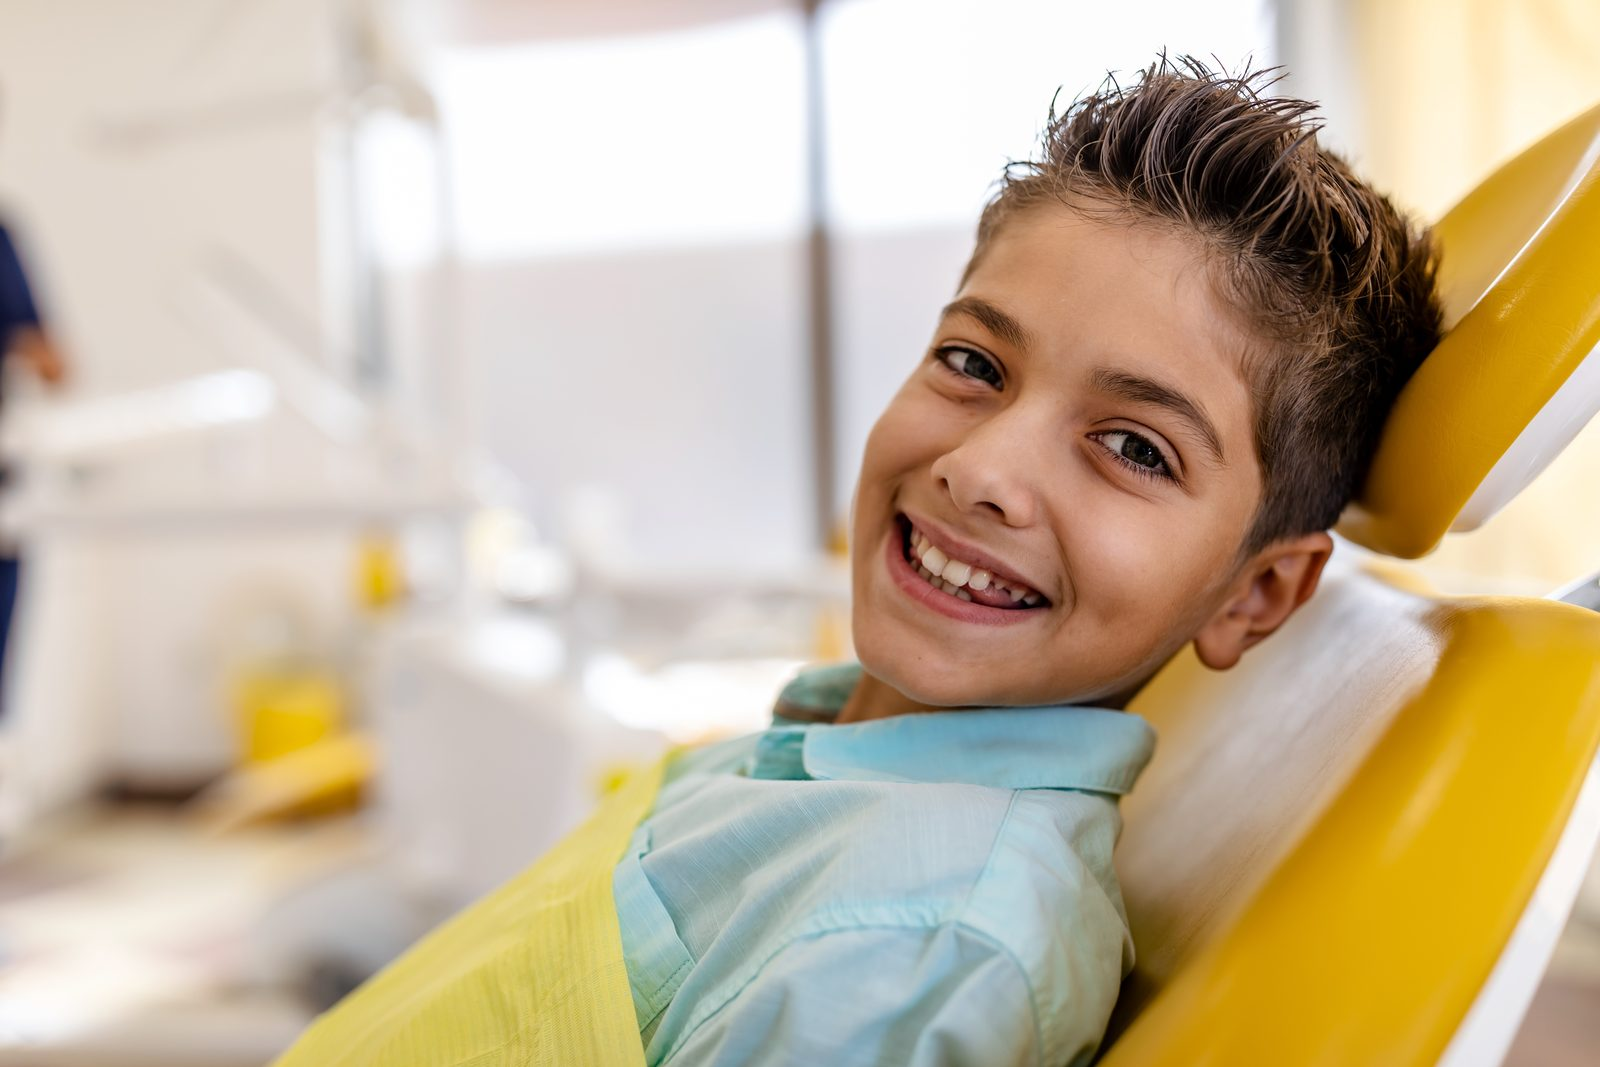
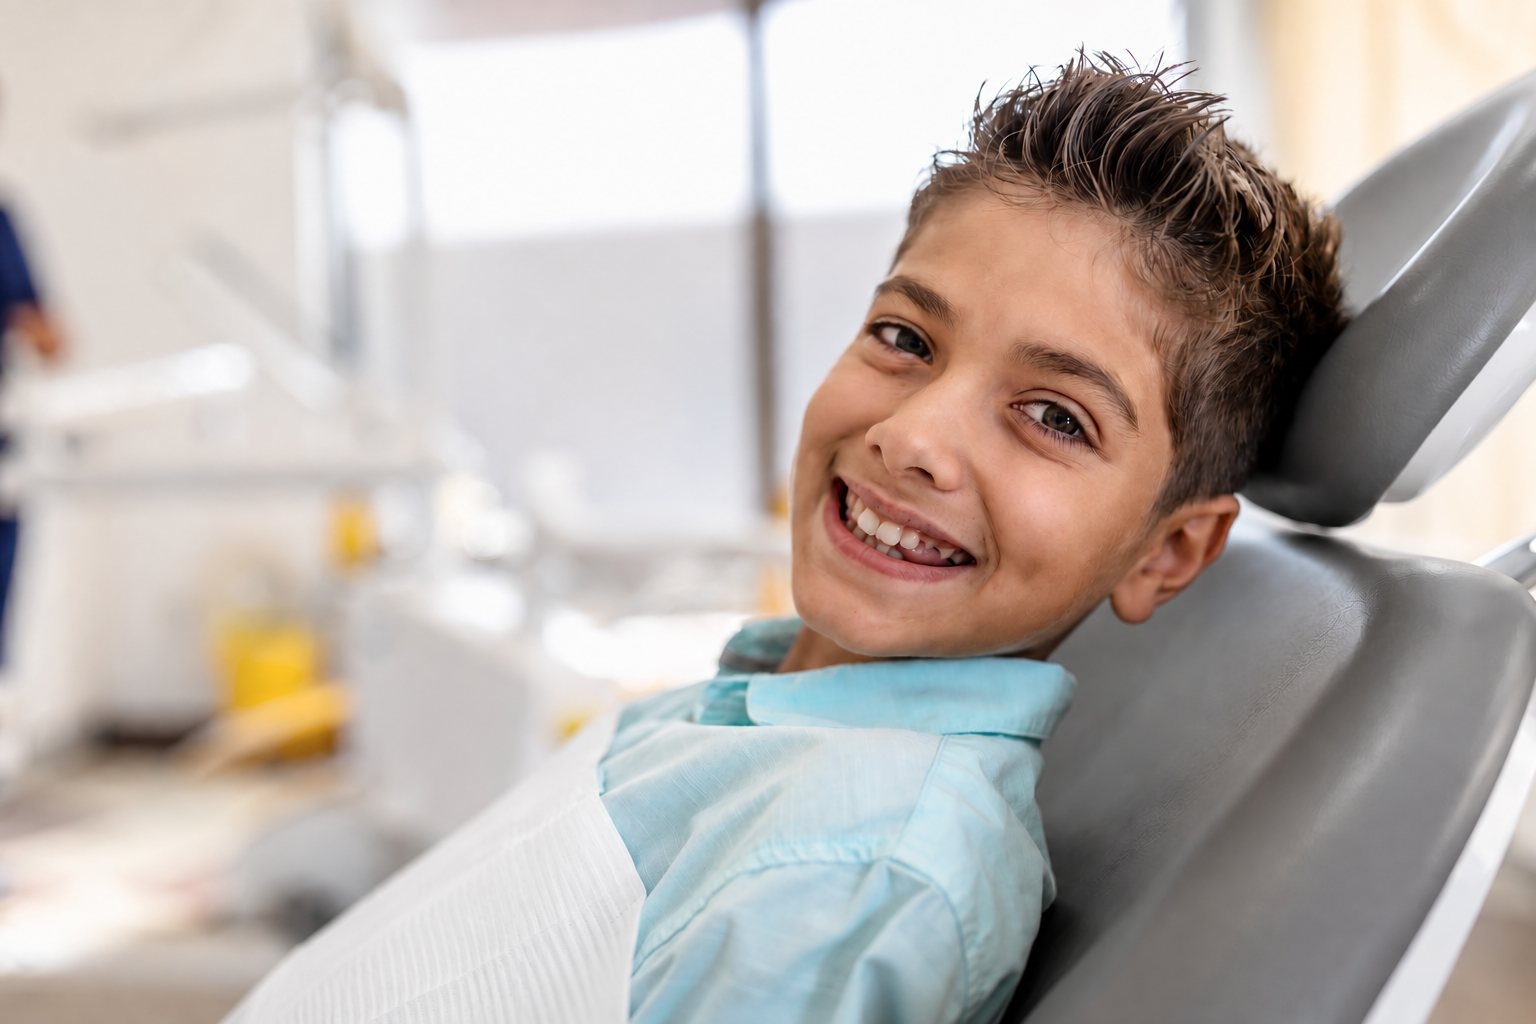
Startseite, Block Jugendliche: Foto mit grauem Behandlungsstuhl wie in der Praxis (Wunsch Frau Dr. Marinello)
Der gelbe Stuhl wurde im Team per Photoshop in das Grau der Praxisstühle retuschiert. Neue Bildgröße 1536x1024 (3:2), Angaben im HTML angepasst.

Claude-Session: https://claude.ai/code/session_01GhTW8za37ph6RXUXMvd5Jg

diff --git a/website/index.html b/website/index.html
@@ -397,7 +397,7 @@
         </div>
       </article>
       <article class="halb halb--rahmen halb--gedreht">
-        <div class="halb__bild zeigen zeigen--bild"><div class="flaeche" role="img" aria-label="Lachender Junge lehnt entspannt im gelben Behandlungsstuhl" data-flaeche="background-image:url('img/kieferorthopaedie-butzbach-jugendlicher-behandlungsstuhl.jpg');background-image:image-set(url('img/kieferorthopaedie-butzbach-jugendlicher-behandlungsstuhl.webp') type('image/webp'),url('img/kieferorthopaedie-butzbach-jugendlicher-behandlungsstuhl.jpg') type('image/jpeg'));--fokus:72% 45%"><noscript><img src="img/kieferorthopaedie-butzbach-jugendlicher-behandlungsstuhl.jpg" alt="Lachender Junge lehnt entspannt im gelben Behandlungsstuhl" width="1600" height="1067" loading="lazy" decoding="async"></noscript></div></div>
+        <div class="halb__bild zeigen zeigen--bild"><div class="flaeche" role="img" aria-label="Lachender Junge lehnt entspannt im gelben Behandlungsstuhl" data-flaeche="background-image:url('img/kieferorthopaedie-butzbach-jugendlicher-behandlungsstuhl.jpg');background-image:image-set(url('img/kieferorthopaedie-butzbach-jugendlicher-behandlungsstuhl.webp') type('image/webp'),url('img/kieferorthopaedie-butzbach-jugendlicher-behandlungsstuhl.jpg') type('image/jpeg'));--fokus:72% 45%"><noscript><img src="img/kieferorthopaedie-butzbach-jugendlicher-behandlungsstuhl.jpg" alt="Lachender Junge lehnt entspannt im gelben Behandlungsstuhl" width="1536" height="1024" loading="lazy" decoding="async"></noscript></div></div>
         <div class="halb__text">
           <div class="zeigen">
             <p class="label">Das Wachstum nutzen</p>
